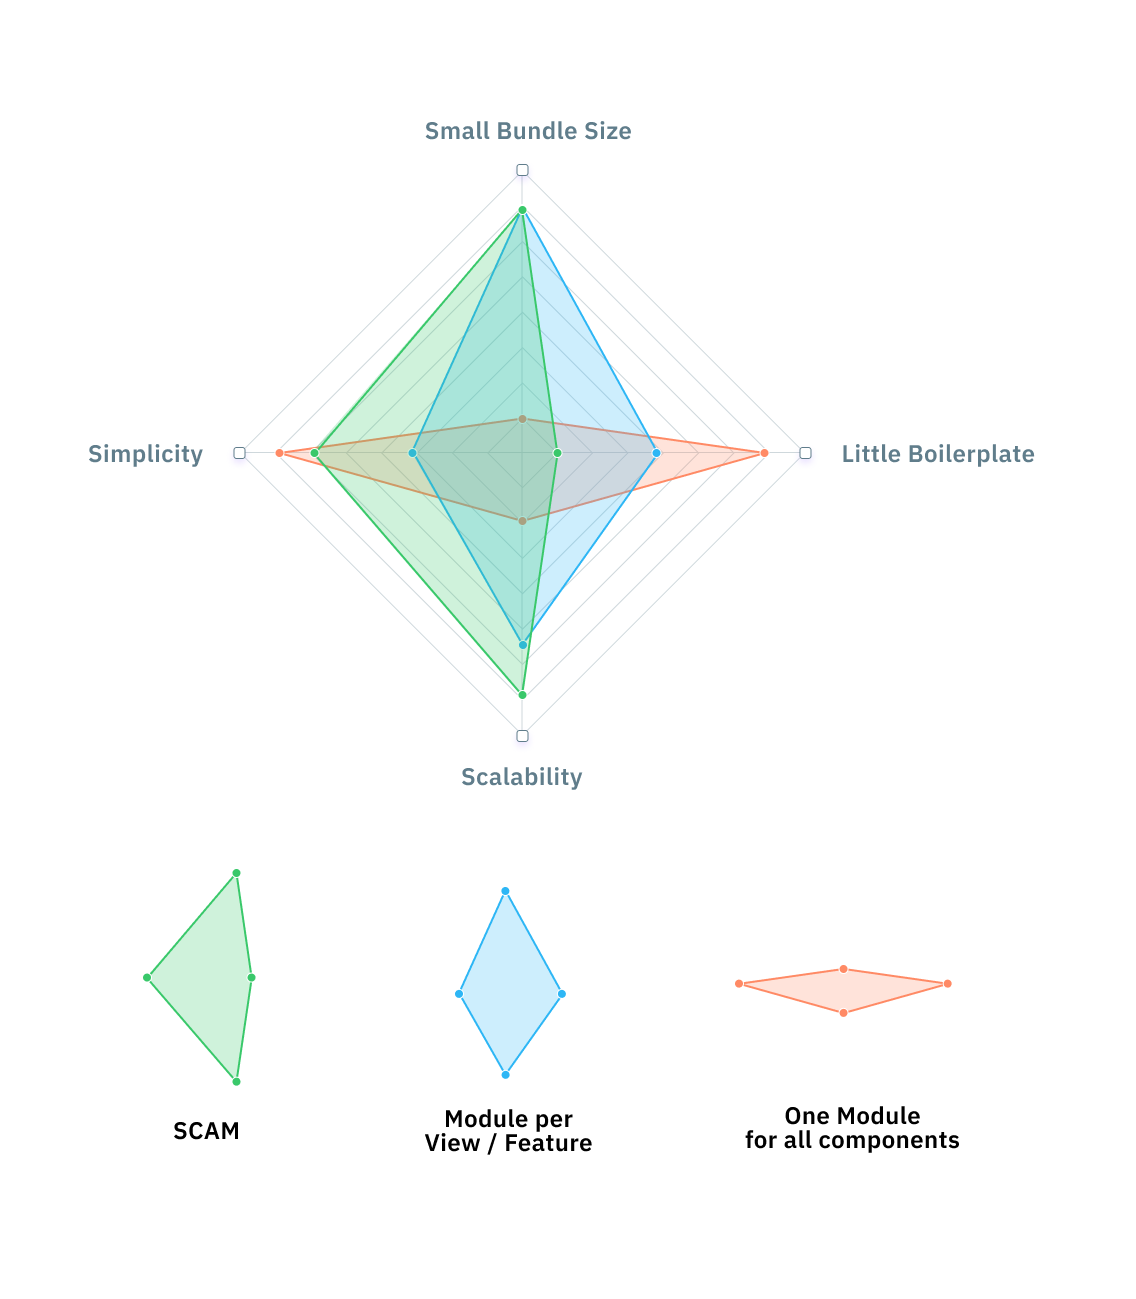
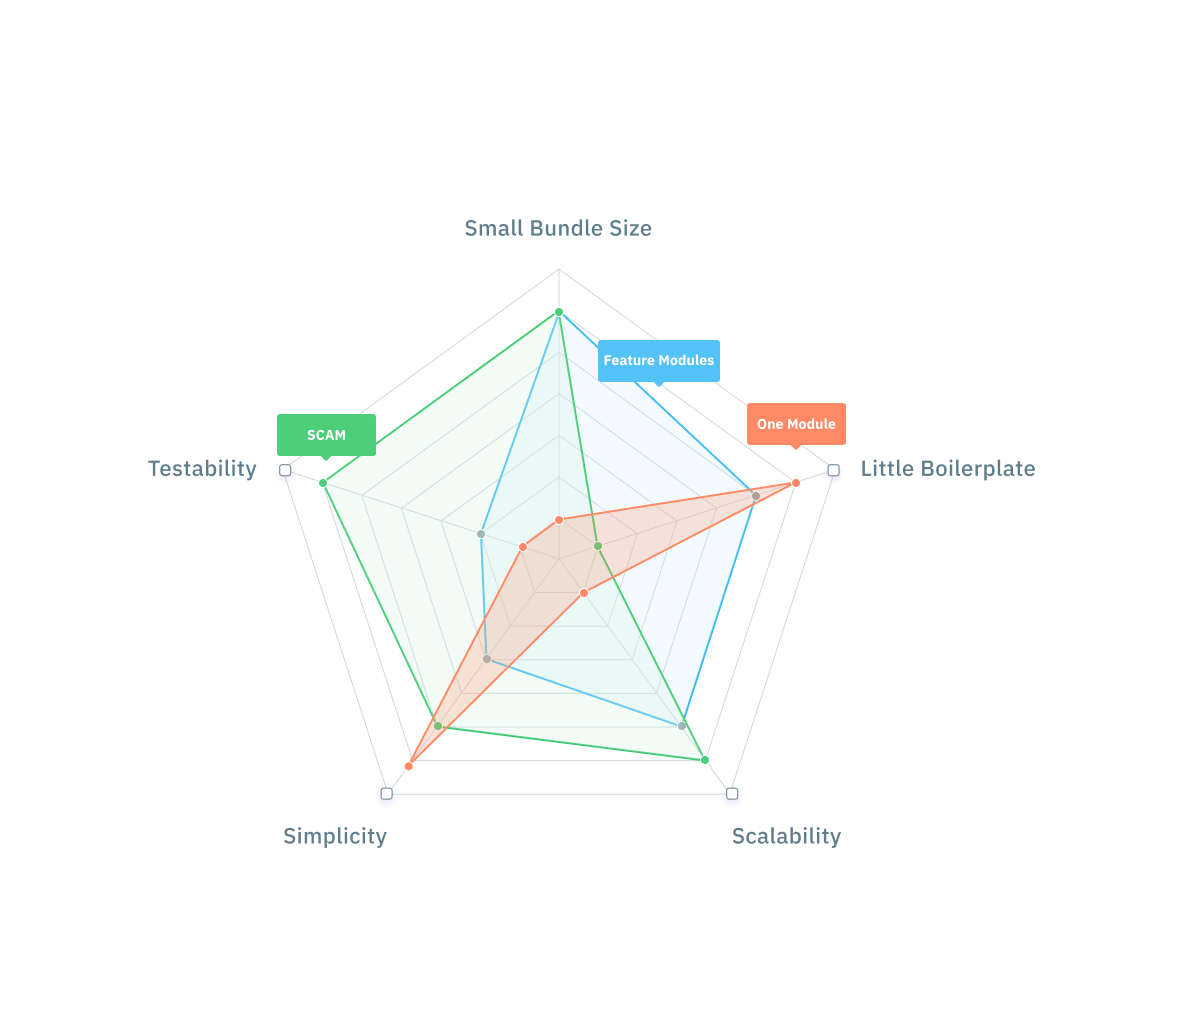
article(ng-modules-best-practices): add testability and update hero

diff --git a/content/posts/2021-07-05-ng-modules-best-practices/index.md b/content/posts/2021-07-05-ng-modules-best-practices/index.md
@@ -94,6 +94,8 @@ There are a few aspects we should consider when deciding on one or the other app
 
 **Boilerplate** How much boilerplate do we need for our Angular modules? The more modules the more boilerplate. This can usually be resolved by generating boilerplate with a CLI or an IDE.
 
+**Testabilty** How easy is it to test a single component? If the component is part of a large module, we may have to mock many services.
+
 ### Strategies
 
 There are 3 strategies I want to have a closer look at today:
@@ -128,7 +130,7 @@ Another benefit of this approach is that Angular can build the optimal bundles f
 
 And last but not least, the rule is very simple: Every component has its module. That’s it, no discussions about how to slice the modules.
 
-The only downside I see is that it adds some boilerplate since we have more module definitions and we have to import all dependencies explicitly.
+The only downside I see is that it adds some boilerplate since we have more module definitions and we have to import all dependencies explicitly. But that might change in the future with a new API on the @Component decorator which allows standalone components (without NgModules). For more on that, you can follow that [spike on Github](https://github.com/angular/angular/pull/42831).
 
 **One module per feature / view (Lazy Load)** is probably the most common pattern.
 
@@ -152,7 +154,7 @@ Going with the classic feature/view module approach is still my go-to approach a
 
 If you build a library, the SCAM strategy is perfect since it allows the library consumer to only import the components they use. It is also good if you have difficulties defining a good strategy due to its simple rules.
 
-Both SCAM and the classic feature/view module approach result in the same bundle structure. So both are very good from a performance perspective.
+Both SCAM and the classic feature/view module approach result in the same bundle structure. So both are very good from a performance perspective. However, this is only the case as long as we do not accidentally import a feature module in the app or core module, which does not happen with SCAM.
 
 ## Summary
 
